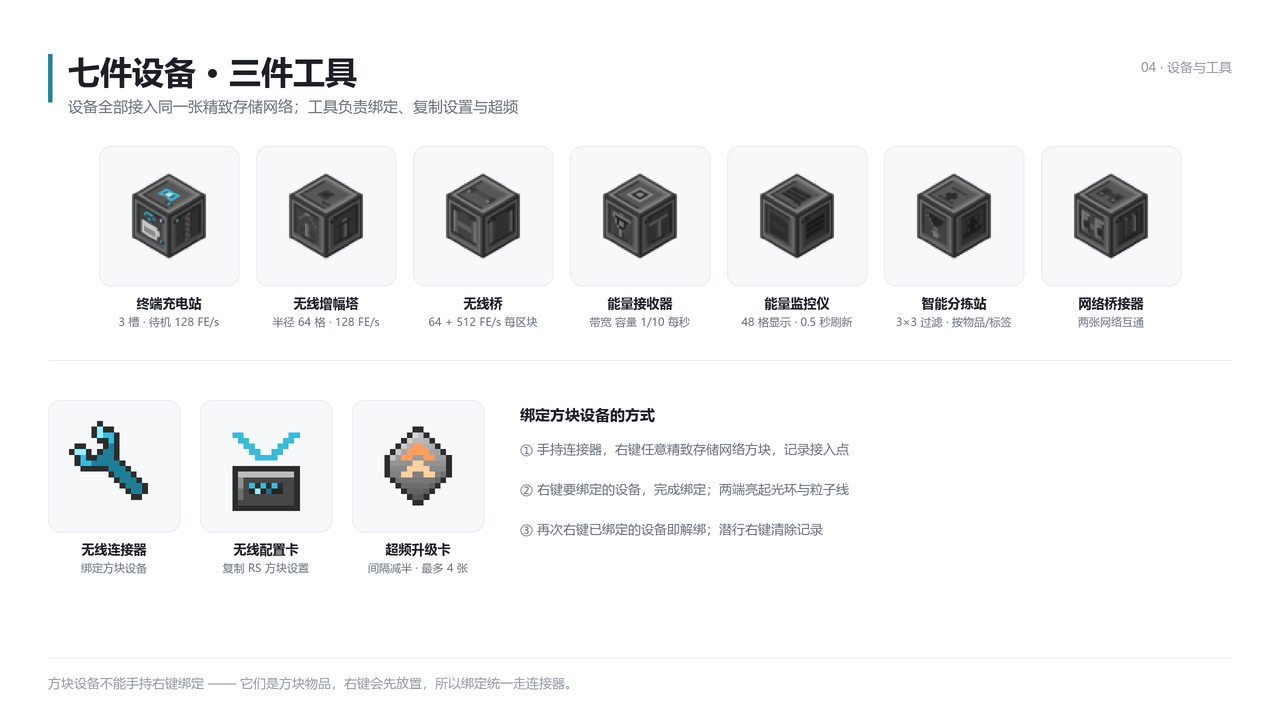
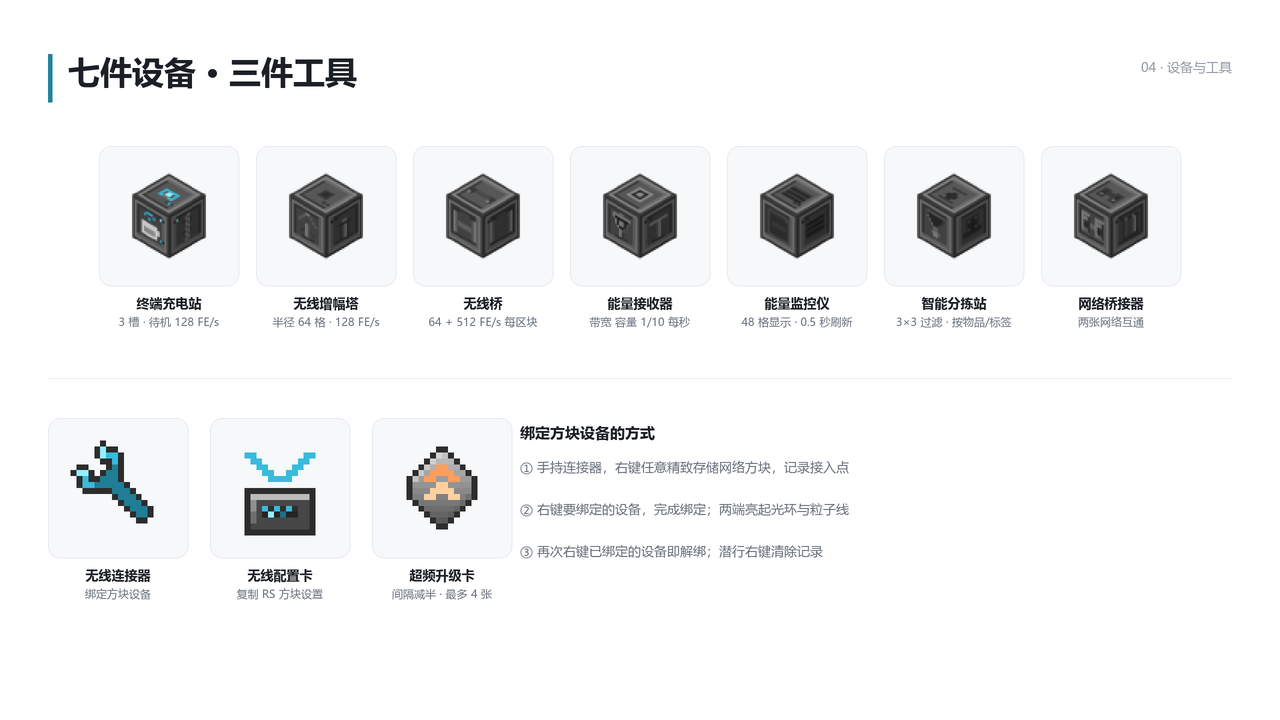
docs(mcmod): 配图去掉副标题与说明文案，首图改为纯内容陈列

diff --git a/gen_mcmod_sheets.py b/gen_mcmod_sheets.py
@@ -179,19 +179,21 @@ def zh_names():
 
 # ------------------------------------------------------------------ 版式
 
-def frame(kicker, title, sub, note):
+def frame(kicker, title, sub=None, note=None):
     img = M.new_canvas(W, H)
     img.paste(Image.new("RGBA", img.size, BG + (255,)), (0, 0))
     d = ImageDraw.Draw(img)
 
     d.rectangle([M.sc(MARGIN), M.sc(54), M.sc(MARGIN + 4), M.sc(102)], fill=ACCENT)
     M.text(d, (MARGIN + 20, 50), title, 32, INK, bold=True)
-    M.text(d, (MARGIN + 20, 96), sub, 15, SUB)
+    if sub:
+        M.text(d, (MARGIN + 20, 96), sub, 15, SUB)
     M.text(d, (W - MARGIN, 58), kicker, 13, MUTED, anchor="ra")
 
-    d.line([M.sc(MARGIN), M.sc(H - 62), M.sc(W - MARGIN), M.sc(H - 62)],
-           fill=DIVIDER, width=M.sc(1))
-    M.text(d, (MARGIN, H - 46), note, 13, MUTED)
+    if note:
+        d.line([M.sc(MARGIN), M.sc(H - 62), M.sc(W - MARGIN), M.sc(H - 62)],
+               fill=DIVIDER, width=M.sc(1))
+        M.text(d, (MARGIN, H - 46), note, 13, MUTED)
     return img, d
 
 
@@ -241,32 +243,15 @@ ITEMS = [
 # ------------------------------------------------------------------ 01
 
 def overview(path):
-    img, d = frame("01 · 特点", "无线合成终端",
-                   "精致存储的无线合成附属 · 绑定一次，之后在任何地方打开网络合成界面",
-                   "终端按次计费；方块设备用无线连接器绑定；插件装在终端的 4 个槽位里，随时可拆。")
-
-    size = 116
-    y = 138
-    xs = [96, 542, 988]
-    tile(img, xs[0], y, size, icon("wireless_crafting_grid"), "无线合成终端", "手持使用")
-    tile(img, xs[1], y, size, M.rs_cube("transmitter", size * 0.7), "无线访问点", "网络的入口")
-    tile(img, xs[2], y, size, M.rs_cube("controller", size * 0.7), "控制器", "网络本体")
-    mid = y + size / 2
-    M.arrow(d, xs[0] + size + 40, mid, xs[1] - 40)
-    M.arrow(d, xs[1] + size + 40, mid, xs[2] - 40)
-
-    d.line([M.sc(MARGIN), M.sc(318), M.sc(W - MARGIN), M.sc(318)], fill=DIVIDER, width=M.sc(1))
-    M.text(d, (MARGIN, 332), "全部内容", 17, INK, bold=True)
-    M.text(d, (W - MARGIN, 336), "终端 4 · 升级插件 6 · 方块设备 7 · 工具 3", 12, MUTED, anchor="ra")
-
-    cols = 10
-    gap = 10
-    cw = (W - MARGIN * 2 - gap * (cols - 1)) / cols
+    img, d = frame("01 · 特点", "全部内容")
+    cols, rows = 5, 4
+    gap_x, gap_y = 18, 16
+    cw = (W - MARGIN * 2 - gap_x * (cols - 1)) / cols
     for i, (key, name) in enumerate(ITEMS):
         r, c = divmod(i, cols)
-        x = MARGIN + c * (cw + gap)
-        y = 368 + r * 128
-        tile(img, x + (cw - 100) / 2, y, 100, icon(key), name, None, name_size=12)
+        x = MARGIN + c * (cw + gap_x)
+        y = 132 + r * (132 + gap_y)
+        tile(img, x + (cw - 96) / 2, y, 96, icon(key), name, None, name_size=13)
     save(img, path)
 
 
@@ -274,8 +259,7 @@ def overview(path):
 
 def terminals(path):
     img, d = frame("02 · 终端", "四件终端",
-                   "都能远程打开，插件槽与绑定方式完全相同；容量与单次费用一致",
-                   "打开界面 5 FE · 手动合成 20 FE · 自动合成 40 FE · 清空矩阵 5 FE（基础值，乘以距离倍率）")
+                   note="打开 5 FE · 手动合成 20 FE · 自动合成 40 FE")
 
     data = [
         ("wireless_crafting_grid", "无线合成终端", "容量 400 FE · 插件槽 4", "合成 / 自动合成"),
@@ -311,8 +295,7 @@ def terminals(path):
 
 def upgrades(path):
     img, d = frame("03 · 升级插件", "六张升级插件",
-                   "装在终端的 4 个槽位里，拖入即装、拖出即卸，不用重做终端",
-                   "装配方式：手持任意无线终端（含精致存储原生的无线终端）→ 潜行 + 右键点击 → 4 个槽位。")
+                   note="装配：手持终端潜行 + 右键，4 个槽位，拖入即装。")
 
     data = [
         ("battery_upgrade", "电池升级插件", "每张 +1000 FE 容量", "可叠加"),
@@ -322,7 +305,7 @@ def upgrades(path):
         ("interdimensional_upgrade", "维度升级插件", "解锁跨维度访问", "需变送器 + 接收器"),
         ("remote_energy_upgrade", "远程输电插件", "扣电走绑定网络", "不足回落到电池"),
     ]
-    cw, ch = 392, 186
+    cw, ch = 392, 212
     gap = 20
     for i, (key, name, eff, note) in enumerate(data):
         r, c = divmod(i, 3)
@@ -341,9 +324,7 @@ def upgrades(path):
 # ------------------------------------------------------------------ 04
 
 def devices_tools(path):
-    img, d = frame("04 · 设备与工具", "七件设备 · 三件工具",
-                   "设备全部接入同一张精致存储网络；工具负责绑定、复制设置与超频",
-                   "方块设备不能手持右键绑定 —— 它们是方块物品，右键会先放置，所以绑定统一走连接器。")
+    img, d = frame("04 · 设备与工具", "七件设备 · 三件工具")
 
     devices = [
         ("terminal_charging_station", "终端充电站", "3 槽 · 待机 128 FE/s"),
@@ -362,7 +343,7 @@ def devices_tools(path):
         tile(img, x, 146, size, icon(key), name, note, name_size=13, note_size=11)
         x += size + gap
 
-    d.line([M.sc(MARGIN), M.sc(360), M.sc(W - MARGIN), M.sc(360)], fill=DIVIDER, width=M.sc(1))
+    d.line([M.sc(MARGIN), M.sc(378), M.sc(W - MARGIN), M.sc(378)], fill=DIVIDER, width=M.sc(1))
 
     tools = [
         ("wireless_connector", "无线连接器", "绑定方块设备"),
@@ -371,18 +352,18 @@ def devices_tools(path):
     ]
     x = MARGIN
     for key, name, note in tools:
-        tile(img, x, 400, 132, icon(key), name, note, name_size=13, note_size=11)
-        x += 132 + 20
+        tile(img, x, 418, 140, icon(key), name, note, name_size=13, note_size=11)
+        x += 140 + 22
 
     bx = 520
-    M.text(d, (bx, 404), "绑定方块设备的方式", 15, INK, bold=True)
+    M.text(d, (bx, 422), "绑定方块设备的方式", 15, INK, bold=True)
     steps = [
         "① 手持连接器，右键任意精致存储网络方块，记录接入点",
         "② 右键要绑定的设备，完成绑定；两端亮起光环与粒子线",
         "③ 再次右键已绑定的设备即解绑；潜行右键清除记录",
     ]
     for i, line in enumerate(steps):
-        M.text(d, (bx, 440 + i * 40), line, 13, SUB)
+        M.text(d, (bx, 458 + i * 42), line, 13, SUB)
     save(img, path)
 
 
@@ -436,9 +417,7 @@ def recipes(path, part):
     chunk = data[part * 10:(part + 1) * 10]
 
     img, d = frame("05 · 合成表 %s" % ("A" if part == 0 else "B"),
-                   "合成表" + ("（一）" if part == 0 else "（二）"),
-                   "20 件内容全部为有序合成，材料取自精致存储与后期材料；顺序与「全部内容」一致",
-                   "材料图标取自模组数据文件，与游戏内配方一致。")
+                   "合成表" + ("（一）" if part == 0 else "（二）"))
     cols, gap = 5, 16
     cw = (W - MARGIN * 2 - gap * (cols - 1)) / cols
     for i, (recipe, name) in enumerate(chunk):
@@ -451,8 +430,7 @@ def recipes(path, part):
 
 def energy(path):
     img, d = frame("07 · 能量与耗电", "能量与耗电",
-                   "按次收费，不按在线时间；每次动作 = 基础费用 × 距离倍率",
-                   "跨维度固定 16 倍；增幅塔半径 64 格内倍率减半；能耗插件可再降。倍率与实际扣费同一套公式。")
+                   note="跨维度固定 16 倍；增幅塔半径 64 格内倍率减半。")
 
     left, right, top, bottom = 110, 700, 180, 520
     values = [1, 2, 4, 8, 16]

diff --git a/docs/MCMOD.md b/docs/MCMOD.md
@@ -181,12 +181,12 @@
 
 ## 三、图片清单
 
-共 8 张：1 张封面 + 7 张 16:9（1280×720）正文配图。每张对应正文一个板块，版式统一（左上标题块、右上板块编号、底部一行注脚），图片已自带中文标注。均在编辑器内本地上传，文件位于 `docs/images/`。
+共 8 张：1 张封面 + 7 张 16:9（1280×720）正文配图。每张对应正文一个板块，版式统一（左上标题、右上板块编号，不写副标题），图片只保留名称与数值，不写说明性文案。均在编辑器内本地上传，文件位于 `docs/images/`。
 
 | 顺序 | 文件 | 对应标题 | 内容 |
 |---|---|---|---|
 | 1 | `mcmod-cover-240x150.png` | 表单封面 | 240×150 封面 |
-| 2 | `mcmod-01-overview.png` | 特点 | 上半：终端 → 无线访问点 → 控制器；下半：20 件内容 10×2 全展示 |
+| 2 | `mcmod-01-overview.png` | 特点 | 20 件内容 5×4 全展示，只有图标与名称 |
 | 3 | `mcmod-02-terminals.png` | 终端 | 4 件终端卡片 + 三项数值条（容量 400 FE、插件槽 4、单次 5–40 FE） |
 | 4 | `mcmod-03-upgrades.png` | 升级插件 | 6 张插件的效果与前提，附装配方式 |
 | 5 | `mcmod-04-devices-tools.png` | 设备 / 工具 | 7 件设备与数值、3 件工具、绑定三步 |
